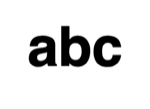
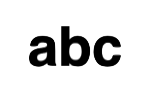
Add text insertion dialog for wdText and vrcText items
- Introduced a new modal dialog in `RoomCalculator.html` for user input when inserting `wdText` and `vrcText` items, allowing text entry before placement on the canvas.
- Implemented corresponding functions in `roomcalc.js` to handle the dialog's opening and text confirmation, ensuring proper insertion and sanitization of user input.
- Updated existing insertion logic to prompt for text input, enhancing user experience and maintaining consistency with the rolesDialog flow for cameras.
- Added notes in the dialog to inform users about the visibility of `vrcText` in the Workspace Designer.

diff --git a/js/roomcalc.js b/js/roomcalc.js
@@ -3233,6 +3233,111 @@ function confirmCreateCustomItemFromDialog() {
     createCustomItem(undefined, cleaned, cleanedAuthor, cleanedDesc);
 }
 
+/* dialogTextInsert — pending insertion state for wdText/vrcText.
+ * Captured by openTextInsertDialog() and consumed in
+ * confirmTextInsertFromDialog(). Reset on confirm so a stale pending
+ * insert (e.g. user opened then closed the dialog without confirming)
+ * doesn't leak into the next item insert. Single global is safe because
+ * only one modal can be open at a time. */
+let _pendingTextInsertDeviceid = null;
+let _pendingTextInsertAttrs = null;
+
+/* Insertion-time text-input modal for wdText / vrcText. Called from
+ * insertItemFromMenu() instead of inserting immediately, so the user
+ * can type the text BEFORE the item lands on canvas (mirror of the
+ * rolesDialog flow for cameras like ptzVision2). Cancelling the dialog
+ * aborts the insert entirely. For vrcText only, surfaces a note that
+ * the item does not appear in the Workspace Designer. */
+function openTextInsertDialog(data_deviceid, attrs) {
+    const dlg = document.getElementById('dialogTextInsert');
+    const input = document.getElementById('textInsertInput');
+    if (!dlg || !input) {
+        /* Defensive: older RoomCalculator.html without the dialog
+         * markup. Fall back to the previous synchronous path with the
+         * 'Text' placeholder so the item still inserts. */
+        attrs.data_labelField = attrs.data_labelField || 'Text';
+        attrs.data_deviceid = data_deviceid;
+        const fallbackUuid = createUuid();
+        attrs.id = fallbackUuid;
+        insertShapeItem(data_deviceid, allDeviceTypes[data_deviceid].parentGroup, attrs, fallbackUuid, true);
+        roomObj.items.push(attrs);
+        roomObjItemsMap.set(attrs.id, attrs);
+        setTimeout(() => { canvasToJson() }, 100);
+        canvasToJson();
+        return;
+    }
+
+    _pendingTextInsertDeviceid = data_deviceid;
+    _pendingTextInsertAttrs = attrs;
+
+    const header = document.getElementById('dialogTextInsertHeader');
+    const vrcNote = document.getElementById('textInsertVrcNote');
+    if (header) {
+        header.innerText = (data_deviceid === 'vrcText')
+            ? 'Add VRC Text'
+            : 'Add Workspace Designer Text';
+    }
+    if (vrcNote) {
+        vrcNote.style.display = (data_deviceid === 'vrcText') ? '' : 'none';
+    }
+
+    input.value = '';
+    dlg.showModal();
+    /* setTimeout(0) lets <dialog>.showModal finish opening before focus. */
+    setTimeout(() => { input.focus(); }, 0);
+}
+
+/* dialogTextInsert "Add" handler — sanitize the text, attach it as
+ * data_labelField on the pending attrs, and complete the wdText /
+ * vrcText insertion (the same insert that insertItemFromMenu()'s
+ * else-branch performs for non-roles items). Empty input falls back
+ * to the 'Text' placeholder so the Konva.Label is still visible on
+ * canvas — matches the pre-dialog default behaviour of
+ * insertItemFromMenu(). The single-line input mirrors the Details
+ * panel convention: any literal "\n" two-char escape the user typed
+ * is converted to a real newline before storing so Konva.Text
+ * renders multi-line correctly (matches updateItem()'s wdText /
+ * vrcText branch). */
+function confirmTextInsertFromDialog() {
+    const input = document.getElementById('textInsertInput');
+    if (!input) return;
+    if (!_pendingTextInsertDeviceid || !_pendingTextInsertAttrs) {
+        /* No pending insert (e.g. dialog opened by some other code
+         * path or state got cleared). Close defensively. */
+        closeAllDialogModals();
+        return;
+    }
+    const raw = (input.value || '').trim();
+    const sanitized = (typeof DOMPurify !== 'undefined' && DOMPurify && typeof DOMPurify.sanitize === 'function')
+        ? (DOMPurify.sanitize(raw) || '')
+        : raw;
+    /* Same "\\n" → real-newline conversion the Details-panel
+     * updateItem() branch performs. The user types the literal
+     * two-char "\n" escape; we store a real newline so the
+     * Konva.Label renders multi-line. JSON / WD export re-escape
+     * back to "\n" automatically via JSON.stringify. */
+    const cleaned = sanitized.replace(/\\n/g, '\n');
+
+    const data_deviceid = _pendingTextInsertDeviceid;
+    const attrs = _pendingTextInsertAttrs;
+    _pendingTextInsertDeviceid = null;
+    _pendingTextInsertAttrs = null;
+
+    attrs.data_labelField = cleaned || 'Text';
+    attrs.data_deviceid = data_deviceid;
+
+    const dlg = document.getElementById('dialogTextInsert');
+    if (dlg) dlg.close();
+
+    const uuid = createUuid();
+    attrs.id = uuid;
+    insertShapeItem(data_deviceid, allDeviceTypes[data_deviceid].parentGroup, attrs, uuid, true);
+    roomObj.items.push(attrs);
+    roomObjItemsMap.set(attrs.id, attrs);
+    setTimeout(() => { canvasToJson() }, 100);
+    canvasToJson();
+}
+
 /* Delete Layer confirmation modal. */
 function openDeleteLayerDialog(layerId) {
     if (layerId === '0' || layerId === '1') return; /* reserved layers cannot be deleted */
@@ -10504,13 +10609,22 @@ function hideSimplePathEditorId(hide = true) {
     }
 }
 
-function simplePathEditor() {
-    let id = document.getElementById('itemId').innerText;
+/* idOverride: optional uuid. When supplied, the editor uses it directly
+ * and writes it back into the Details panel so the close-path handler's
+ * updateItem() (which reads #itemId.innerText) targets the right node.
+ * Used by insertItemFromMenu() to launch the editor immediately after a
+ * fresh pathShape insertion, before the user has clicked anything. The
+ * default no-arg form (HTML `Draw Simple Path` button) is unchanged. */
+function simplePathEditor(idOverride) {
+    let id = (typeof idOverride === 'string' && idOverride)
+        ? idOverride
+        : document.getElementById('itemId').innerText;
 
     let node = stage.findOne('#' + id);
     if (node) {
         node.hide();
         simplePathEditorId = id;
+        document.getElementById('itemId').innerText = id;
     } else {
         alert('item.id not found', id);
     }
@@ -22935,12 +23049,18 @@ function insertItemFromMenu(data_deviceid, attrs) {
         attrs.data_vHeight = default_vHeight;
     }
 
-    /* wdText/vrcText need an initial text string so the user sees
-     * something on the canvas immediately. Set a default 'Text' label if
-     * the caller hasn't provided one (paste/import paths already carry
-     * text). */
+    /* wdText/vrcText: prompt the user for the text in a modal before
+     * inserting (similar to the rolesDialog flow for cameras like
+     * ptzVision2). The dialog handler (confirmTextInsertFromDialog)
+     * completes the insertion after the user clicks Add; Cancel aborts
+     * the insert. Paste/import paths bypass this because they don't go
+     * through insertItemFromMenu() — they go through insertItem() /
+     * pasteItems() with data_labelField already set. The
+     * !attrs.data_labelField guard also lets any future programmatic
+     * caller that pre-populates the label skip the dialog. */
     if (isTextItem(data_deviceid) && !attrs.data_labelField) {
-        attrs.data_labelField = 'Text';
+        openTextInsertDialog(data_deviceid, attrs);
+        return;
     }
 
 
@@ -22967,6 +23087,16 @@ function insertItemFromMenu(data_deviceid, attrs) {
         /* add device to roomObj */
 
         canvasToJson();
+
+        /* pathShape: auto-launch the simple path editor so the user
+         * starts drawing immediately rather than having to select the
+         * placeholder shape and click "Draw Simple Path". The 300 ms
+         * defer is past the 250 ms tr.nodes()/updateFormatDetails()
+         * timer inside insertShapeItem() so #itemId is fully populated
+         * before the editor hides the node and enters polyBuilder mode. */
+        if (data_deviceid === 'pathShape') {
+            setTimeout(() => { simplePathEditor(uuid); }, 300);
+        }
 
     }
 

diff --git a/RoomCalculator.html b/RoomCalculator.html
@@ -2477,6 +2477,39 @@
   </dialog>
 
   <!--
+    Text Insert — opened from insertItemFromMenu() when the user inserts a
+    wdText or vrcText item (drag from the Walls menu, Quick Add palette,
+    etc.). Prompts for the text before the item lands on canvas, similar
+    to the cameras' rolesDialog flow. For vrcText only, a note explains
+    that VRC Text does not appear in the Workspace Designer (vrcText
+    round-trips via workspaceObj.data.vrc.vrcTexts[] rather than being
+    emitted into customObjects on WD export). Cancelling aborts the
+    insert. The text input mirrors the Details-panel label-field
+    convention: a single-line <input type="text"> where the user types
+    the literal two-char "\n" escape for multi-line text;
+    confirmTextInsertFromDialog() converts it to real newlines before
+    storing so Konva.Text renders multi-line correctly.
+  -->
+  <dialog id="dialogTextInsert" class='dialogWhiteBox dialogAlertModal' onclick="onDialogClick(event)">
+    <header class="dialogWhiteBoxHeader" id="dialogTextInsertHeader">Add Text</header>
+    <div class="closeDialogX" onclick="closeAllDialogModals()">&#x2715;</div>
+    <main class="dialogAlertMain">
+      <div class="inputField" style="max-width: none;">
+        <label for="textInsertInput" style="margin-bottom: 6px; display: block;">Text:</label>
+        <input type="text" id="textInsertInput" maxlength="500" style="width: 100%; box-sizing: border-box;"
+          onkeydown="if(event.key==='Enter'){event.preventDefault();confirmTextInsertFromDialog();}" />
+      </div>
+      <div id="textInsertVrcNote" style="display: none; font-size: 12px; color: #555; margin-top: 6px; font-style: italic;">
+        VRC Text do not appear in the Workspace Designer.
+      </div>
+    </main>
+    <div style="display: flex; gap: 8px; justify-content: flex-end; padding: 8px 0;">
+      <button class="button dropDownBtnWhite" onclick="closeAllDialogModals()">Cancel</button>
+      <button class="button" onclick="confirmTextInsertFromDialog()">Add</button>
+    </div>
+  </dialog>
+
+  <!--
     Edit Custom Item — opened from the Quick Add palette's per-tile ellipsis button.
     Lets the user rename / re-author / re-describe a library template AND surfaces
     Export / Delete / Remove-From-Library actions. The form fields mirror